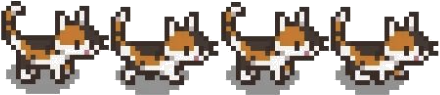
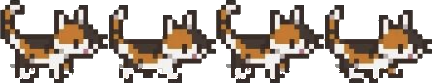
Add files via upload

diff --git a/index.html b/index.html
@@ -302,11 +302,11 @@
   .walking-kitten.cat-gray .frame { background-image: url('gray-walk-sheet.png'); }
   .walking-kitten.cat-cream .frame { background-image: url('cream-walk-sheet.png'); }
   .walking-kitten.cat-black .frame { background-image: url('black-walk-sheet.png'); }
-  .walking-kitten.k1 { animation-duration: 16s; animation-delay: 0s; }
-  .walking-kitten.k2 { animation-duration: 19s; animation-delay: 4s; }
-  .walking-kitten.k3 { animation-duration: 22s; animation-delay: 8s; }
-  .walking-kitten.k4 { animation-duration: 25s; animation-delay: 12s; }
-  .walking-kitten.k5 { animation-duration: 28s; animation-delay: 16s; }
+  .walking-kitten.k1 { animation-duration: 16s; animation-delay: -2s; }
+  .walking-kitten.k2 { animation-duration: 19s; animation-delay: -9s; }
+  .walking-kitten.k3 { animation-duration: 22s; animation-delay: -16s; }
+  .walking-kitten.k4 { animation-duration: 25s; animation-delay: -5s; }
+  .walking-kitten.k5 { animation-duration: 28s; animation-delay: -21s; }
   @keyframes walkAcross {
     0% { left: -70px; }
     100% { left: calc(100% + 10px); }
